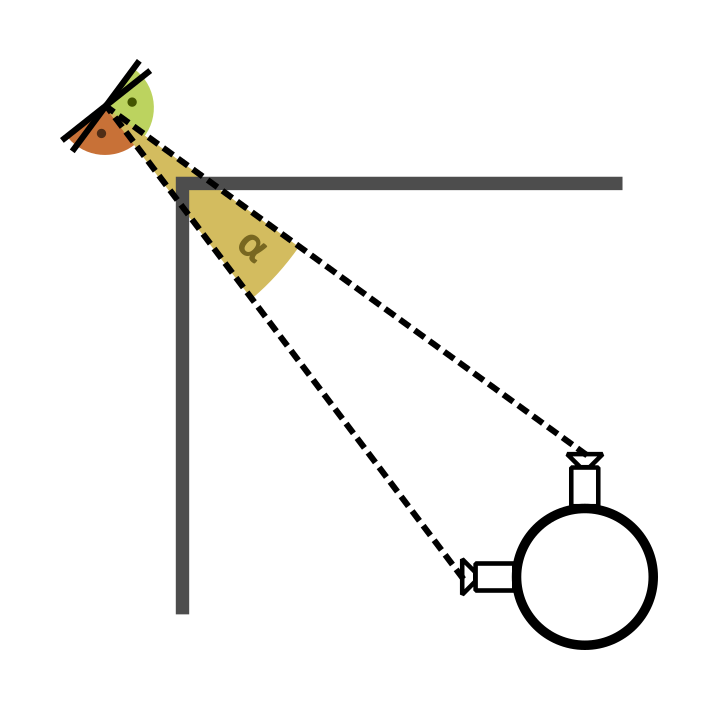
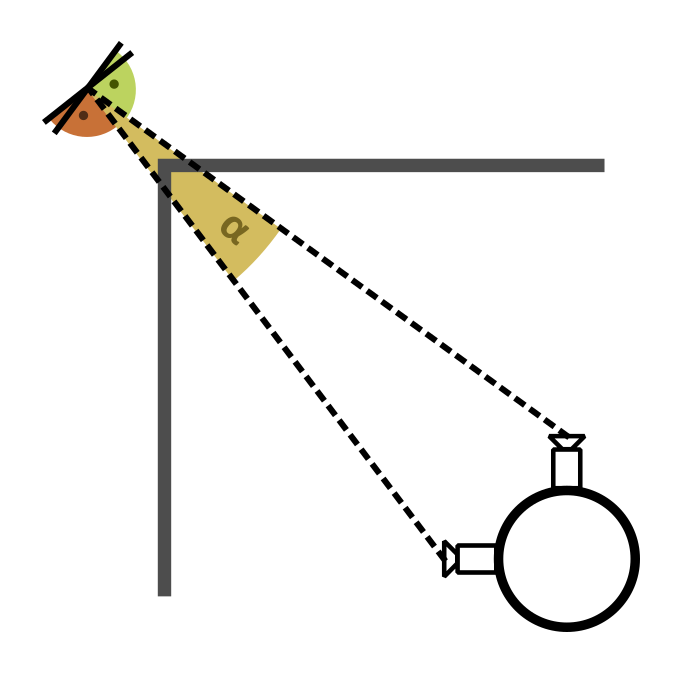
fit flow

diff --git a/rozdzialy/4_implementacja/2_reprez_wizualna.tex b/rozdzialy/4_implementacja/2_reprez_wizualna.tex
@@ -26,7 +26,7 @@ Obiekty węzłów nie są w większości przypadków tworzone dynamicznie. Zamia
 
 W celu odciążenia karty graficznej zrezygnowaliśmy z wyświetlania każdego węzła jako trójwymiarowego modelu (jak na przykład kuli). Reprezentacją węzła jest prosta grafika rastrowa (Rysunek \ref{fig:node_sprites}). Dzięki temu siatka przetwarzana przez komputer jest dużo prostsza, ponieważ zawiera tylko cztery wierzchołki (dwa trójkąty) - jest to kwadratowa płaszczyzna z nałożoną teksturą. Dzięki temu aplikacja jest w stanie wyświetlić więcej węzłów na raz bez utraty płynności działania.
 
-\img{\chapterPath/img/node_sprites.png}{Grafiki węzłów (od lewej): artykuł aktywny i wskazany, kategoria aktywna i wskazana}{node_sprites}{0.6}
+\img{\chapterPath/img/node_sprites.png}{Grafiki węzłów (od lewej): artykuł aktywny i wskazany, kategoria aktywna i wskazana}{node_sprites}{0.5}
 
 Takie rozwiązanie powoduje jednak pewną komplikację. Płaszczyzna z grafiką, w przeciwieństwie do przestrzennego modelu, jest dobrze widoczna tylko kiedy kamera jest ustawiona bezpośrednio przed nią i zwrócona w jej stronę. Pojawia się więc potrzeba obracania obiektu węzła tak, aby był on zawsze zwrócony przodem do użytkownika zwiedzającego graf. Najprostszym rozwiązaniem byłoby dodanie krótkiego skryptu do każdego obiektu, który przy każdym odświeżeniu ekranu obracałby reprezentację węzła w stronę kamery. Nie jest to jednak dobre rozwiązanie z powodu narzutu czasowego. W każdej klatce ta sama operacja byłaby wykonywana potencjalnie kilkanaście tysięcy razy, co mogłoby mieć widoczny efekt na szybkości działania aplikacji.
 
@@ -34,7 +34,7 @@ Znacznie lepszym rozwiązaniem jest użycie shadera. W przeciwieństwie do stand
 
 \paragraph{Problem} Każda ściana jaskini rzeczywistości wirtualnej jest kontrolowana przez osobny komputer z własną instancją aplikacji, posiadającą swoją parę kamer (dla każdego oka) skierowaną w kierunku danej ściany w przestrzeni wizualizacji. Ze względu na wymagania stereoskopii oraz spójności obrazów na każdej ze ścian, kamery te nie znajdują się w dokładnie tym samym punkcie w przestrzeni symulacji. Są od siebie lekko oddalone (rozstaw oczu dla każdej ściany oraz obrót głowy dla każdej pary przylegających ścian). Billboard Shader odwraca obiekty węzłów tak, aby były zwrócone przodem do punktu, w którym znajduje się kamera na lokalnej ścianie. Powoduje to, że jeśli dany węzeł znajdzie się w pozycji wyświetlanej na przecięciu ekranów \ref{fig:billboard-schema} (na przykład połowa węzła na jednej a połowa na drugiej ścianie jaskini), na każdym z odpowiadających za ściany komputerów zostanie obrócony w nieco innym kierunku. Różnica kątów obrotu \(\alpha\) będzie tu odpowiadała odległości kątowej pomiędzy położeniem kamer obu ścian z perspektywy węzła. W efekcie części obiektu węzła mogą nie być spójne z punktu widzenia obserwatora znajdującego się w jaskini.
 
-\img{\chapterPath/img/billboard-schema.png}{Poglądowy schemat ilustrujący problem, widok z góry\\ (prawidłowa skala nie została przedstawiona)}{billboard-schema}{.65}
+\img{\chapterPath/img/billboard-schema.png}{Poglądowy schemat ilustrujący problem, widok z góry\\ (prawidłowa skala nie została przedstawiona)}{billboard-schema}{.4}
 
 \paragraph{Rozwiązanie} Aby rozwiązać ten problem, należało wykonywać obrót grafik węzłów względem jednego punktu znajdującego się w dokładnie tej samej pozycji dla wszystkich ścian (użyta została centralna pozycja głównych okularów śledzonych w jaskini). To przekształcenie wymagało ręcznego przepisania shadera z powodu braku gotowego i dostępnego rozwiązania. Problem sprowadził się do stworzenia macierzy \(R\) przekształcającej wektor trójwymiarowy \(a\) w \(b\) - w tym przypadku domyślny zwrot grafiki węzła w kierunek wskazujący na pozycję nowego wybranego obiektu wspólnego. Implementacja jest wzorowana na wpisie z forum matematycznego \cite{BillboardShaderFormula}.
 
